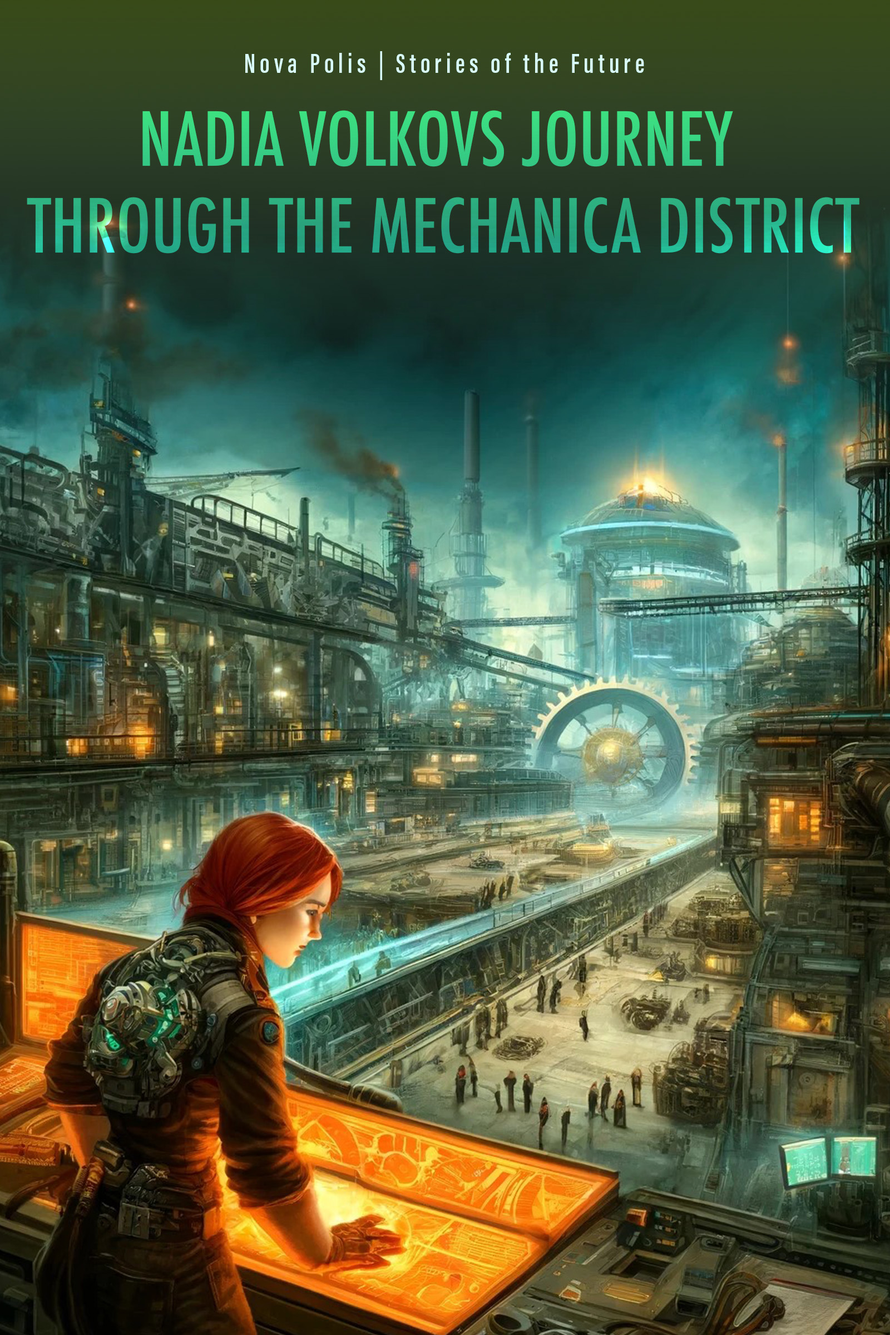
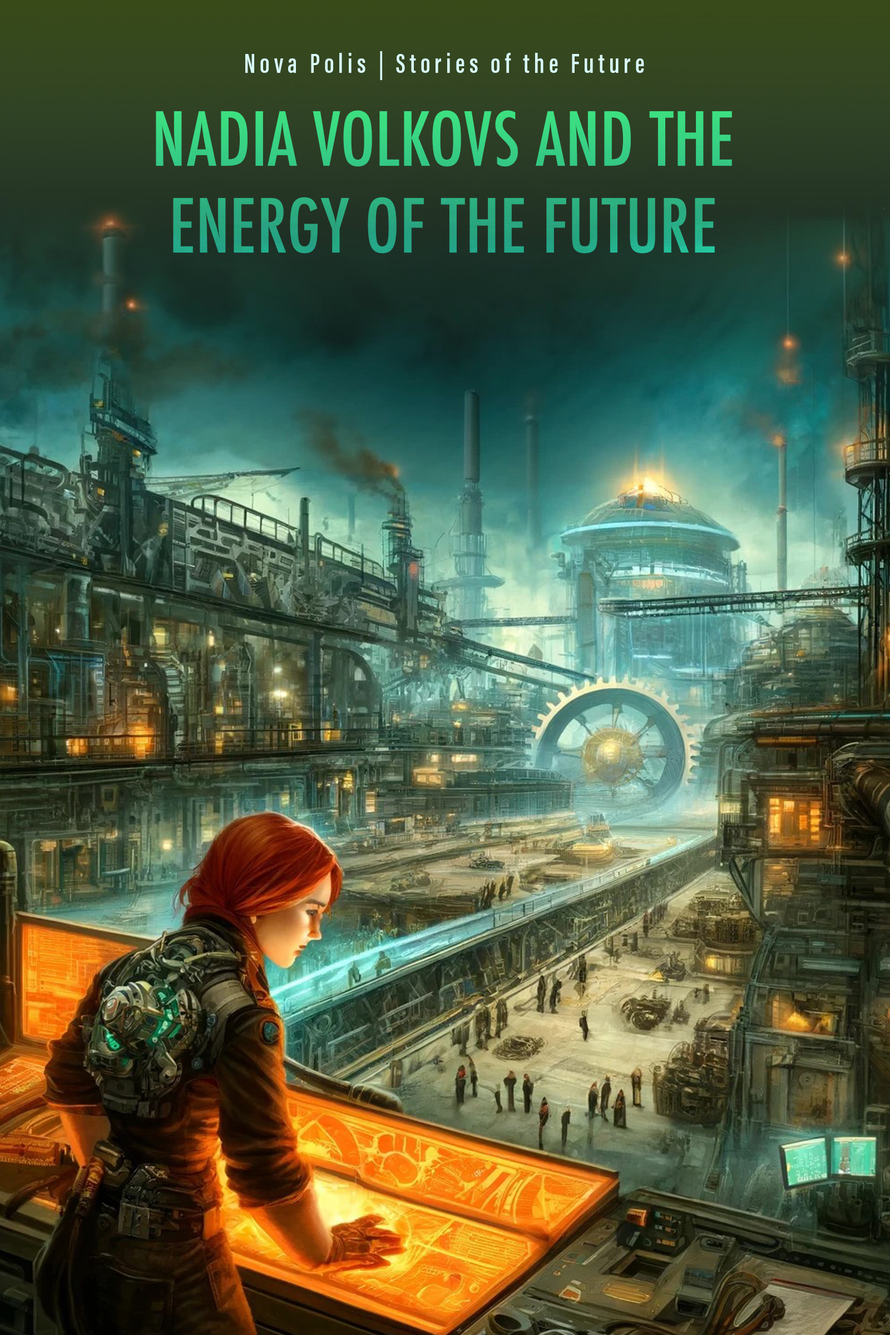
Version1.1

Changed region(s): [[0.0312, 0.0625, 0.9688, 0.1875]]

diff --git a/js/scripts.js b/js/scripts.js
@@ -19,11 +19,16 @@ document.addEventListener('DOMContentLoaded', function() {
             booktext1: "A Day in Nova Polis, follows Alex, a courier navigating a futuristic city of contrasts. From the luxury of Zenith Heights to the vibrancy of the Neon District, the industry of the Mechanica District, and the peace of Elysium Gardens, ending in the challenging Dystopia Slums. Through his deliveries, Alex discovers the diverse and human facets of Nova Polis.",
             bookTitle2: "Nadia Volkov and the Energy of the Future",
             booktext2: "In Nova Polis, engineer Nadia Volkov develops a revolutionary energy core designed to improve the slums and make the industry more efficient. With the support of union leader Max and tech CEO Aria, she fights against corrupt leaders. Despite resistance, they manage to take control of the city's central energy hub and create sustainable change. Will their vision of a fairer and more sustainable future become a reality?",
+            bookTitle3: "The Night of Ascension",
+            bookText3:"Theo Marlowe, a street musician, is discovered by producer Jasper Blake and gets the chance to record demos. After a successful show at the Hyperion Club, supported by engineer Nadia with holographic effects, Theo becomes famous. With his success, he establishes a foundation for young musicians from the Dystopia Slums to help them achieve their dreams. But how will Theo handle his newfound fame, and what challenges await him in Nova Polis?",
             button1: "Buy Now in EN",
             button2: "Buy Now in DE",
             button3: "Coming soon",
             button4: "Buy Now in DE",
+            button5: "Buy Now in EN",
+            button6: "Buy Now in DE",
             follow: "Follow us",
+            workinprogess: "Work in Progress",
             projects: {
                 1: {
                     title: "Shadows of Revolution",
@@ -32,10 +37,16 @@ document.addEventListener('DOMContentLoaded', function() {
                     details: "Shadows of Revolution is a gripping dystopian novel that immerses the reader in the dark world of the city of Ecliptas. In a society controlled by megacorporations, Maya and Gabe fight against oppression and for freedom. The protagonist, Maya, shaped by her unique heritage and deep determination, is at the center of this fight. Together with her group of rebels, she tries to bring the truth about the rulers' machinations to light and mobilize the citizens of Ecliptas. The plot is filled with tension, secrets, and moral dilemmas that captivate the reader. The strength of the book lies not only in its suspenseful storyline but also in its profound characters and the complex relationships that connect them. Anthony succeeds in captivating readers with vivid descriptions and a detailed world where every decision has far-reaching consequences. Shadows of Revolution is more than just a story about rebellion; it is a call for reflection on power, freedom, and the role of the individual in society. A must-read for fans of dystopian literature and thrilling adventure stories."   
                 },
                 2: {
-                    title: "Project Title 2",
+                    title: "Nova Polis: Stories of the Future",
                     image: "images/project2.jpg",
-                    description: "A brief description of Project 2.",
-                    details: "Detailed information about Project 2. This section can include the project's objectives, challenges, solutions, and results."
+                    description: "Futuristic stories of perseverance, hope, and urban contrasts.",
+                    details: "Welcome to Nova Polis, a futuristic city where technology meets human destinies. This short story series explores wealth and poverty, progress and decay, hope and despair. Journey through the vibrant metropolis from luxurious Zenith Heights to dangerous Dystopia Slums. Discover the contrasts: Zenith Heights' luxury, Neon District's nightlife, Mechanica District's industry, Elysium Gardens' sustainability, and the struggles in Dystopia Slums. Each story reveals the lives of Nova Polis residents, showcasing the city's diversity and complexity. Immerse yourself in Nova Polis and uncover how its people live, love, and fight in a changing world. What twists await them? Discover in our stories!"
+                },
+                3: {
+                    title: "My Creative Journey in Web Design",
+                    image: "images/project3.jpg",
+                    description: "In this section, I share my journey and passion for web design.",
+                    details: "Welcome to my web design portfolio! Here, I showcase a selection of my favorite projects that I have created with passion and creativity. For me, web design is more than just a profession - it is my hobby and my greatest passion. I love creating appealing and functional websites that not only look good but are also easy to use. My process is simple and straightforward. Everything starts with an idea and a clear vision of what the website should achieve. Then comes the designing and experimenting – I create drafts and prototypes, discussing them with friends and acquaintances to get feedback. Once the design is finalized, I move on to development and build the website step by step. If you're interested in collaborating on a project or just want to learn more, feel free to contact me! I'm always excited about new ideas and challenges."
                 }
             }
         },
@@ -58,11 +69,16 @@ document.addEventListener('DOMContentLoaded', function() {
             booktext1: "Ein Tag in Nova Polis, folgt Alex, einem Kurier, der sich durch eine futuristische Stadt der Gegensätze bewegt. Von der Luxus von Zenith Heights über die Lebendigkeit des Neon Districts, die Industrie des Mechanica Districts und die Ruhe der Elysium Gardens bis hin zu den herausfordernden Dystopia Slums. Durch seine Lieferungen entdeckt Alex die vielfältigen und menschlichen Facetten von Nova Polis.",
             bookTitle2: "Nadia Volkov und die Energie der Zukunft",
             booktext2: "In Nova Polis entwickelt Ingenieurin Nadia Volkov einen revolutionären Energiekern, der die Slums verbessern und die Industrie effizienter machen soll. Mit Unterstützung von Gewerkschaftsführer Max und Tech-CEO Aria kämpft sie gegen korrupte Machthaber. Trotz Widerständen gelingt es ihnen, die zentrale Energiezentrale zu übernehmen und die Stadt nachhaltig zu verändern. Wird ihre Vision von einer gerechteren und nachhaltigeren Zukunft Wirklichkeit werden?",
+            bookTitle3: "Die Nacht des Aufstiegs",
+            bookText3:"Theo Marlowe, ein Straßenmusiker, wird von Produzent Jasper Blake entdeckt und erhält die Chance, Demos aufzunehmen. Nach einer erfolgreichen Show im Hyperion Club, unterstützt von der Ingenieurin Nadia mit holografischen Effekten, wird Theo berühmt. Mit seinem Erfolg gründet er eine Stiftung für junge Musiker aus den Dystopia Slums, um ihnen zu helfen, ihre Träume zu verwirklichen. Doch wie wird Theo mit seinem neuen Ruhm umgehen, und welche Herausforderungen erwarten ihn noch in Nova Polis?",
             button1: "Jetzt kaufen in EN",
             button2: "Jetzt kaufen in DE",
             button3: "Demnächst verfügbar",
             button4: "Jetzt kaufen in DE",
+            button5: "Jetzt kaufen in EN",
+            button6: "Jetzt kaufen in DE",
             follow: "Folge uns",
+            workinprogess: "in Arbeit",
             projects: {
                 1: {
                     title: "Shadows of Revolution",
@@ -71,10 +87,16 @@ document.addEventListener('DOMContentLoaded', function() {
                     details: "Shadows of Revolution ist ein fesselnder dystopischer Roman, der den Leser in die dunkle Welt der Stadt Ecliptas eintauchen lässt. In einer Gesellschaft, die von Megakonzernen kontrolliert wird, kämpfen Maya und Gabe gegen Unterdrückung und für Freiheit. Die Protagonistin Maya, geprägt durch ihr einzigartiges Erbe und ihren tiefen Entschluss, steht im Zentrum dieses Kampfes. Zusammen mit ihrer Gruppe von Rebellen versucht sie, die Wahrheit über die Machenschaften der Herrscher ans Licht zu bringen und die Bürger von Ecliptas zu mobilisieren. Die Handlung ist voller Spannung, Geheimnisse und moralischer Dilemmata, die den Leser fesseln. Die Stärke des Buches liegt nicht nur in seiner spannenden Handlung, sondern auch in seinen tiefgründigen Charakteren und den komplexen Beziehungen, die sie verbinden. Anthony gelingt es, die Leser mit lebendigen Beschreibungen und einer detaillierten Welt zu fesseln, in der jede Entscheidung weitreichende Konsequenzen hat. Schatten der Revolution ist mehr als nur eine Geschichte über Aufstand; es ist ein Aufruf zur Reflexion über Macht, Freiheit und die Rolle des Individuums in der Gesellschaft. Ein Muss für Fans von dystopischer Literatur und spannenden Abenteuergeschichten."
                 },
                 2: {
-                    title: "Projekt Titel 2",
+                    title: "Nova Polis: Geschichten der Zukunft",
                     image: "images/project2.jpg",
-                    description: "Eine kurze Beschreibung des Projekts 2.",
-                    details: "Detaillierte Informationen über das Projekt 2. Dieser Abschnitt kann die Ziele, Herausforderungen, Lösungen und Ergebnisse des Projekts enthalten."
+                    description: "Futuristische Geschichten über Durchhaltevermögen, Hoffnung und urbane Kontraste.",
+                    details: "Willkommen in Nova Polis, einer futuristischen Stadt, in der Technologie auf menschliche Schicksale trifft. Diese Kurzgeschichtenreihe erkundet Reichtum und Armut, Fortschritt und Verfall, Hoffnung und Verzweiflung. Reisen Sie durch die lebendige Metropole von den luxuriösen Zenith Heights bis zu den gefährlichen Dystopia Slums. Entdecken Sie die Kontraste: den Luxus von Zenith Heights, das Nachtleben im Neon District, die Industrie im Mechanica District, die Nachhaltigkeit der Elysium Gardens und die Kämpfe in den Dystopia Slums. Jede Geschichte enthüllt das Leben der Bewohner von Nova Polis und zeigt die Vielfalt und Komplexität der Stadt. Tauchen Sie ein in Nova Polis und erfahren Sie, wie die Menschen in einer sich wandelnden Welt leben, lieben und kämpfen. Welche Wendungen erwarten sie? Entdecken Sie es in unseren Geschichten!"
+                },
+                3: {
+                    title: "Meine kreative Reise im Webdesign",
+                    image: "images/project3.jpg",
+                    description: "In diesem Abschnitt teile ich meine Reise und Leidenschaft für Webdesign.",
+                    details: "Willkommen in meinem Webdesign-Portfolio! Hier zeige ich eine Auswahl meiner liebsten Projekte, die ich mit viel Leidenschaft und Kreativität umgesetzt habe. Für mich ist Webdesign mehr als nur ein Beruf – es ist mein Hobby und meine große Leidenschaft. Ich liebe es, ansprechende und funktionale Websites zu gestalten, die nicht nur gut aussehen, sondern auch einfach zu bedienen sind. Mein Prozess ist einfach und unkompliziert. Alles beginnt mit einer Idee und einer klaren Vorstellung davon, was die Website erreichen soll. Dann geht es ans Designen und Ausprobieren – ich erstelle Entwürfe und Prototypen, die ich mit Freunden und Bekannten bespreche, um Feedback zu bekommen. Wenn das Design steht, mache ich mich an die Umsetzung und entwickle die Website Schritt für Schritt. Wenn du Lust hast, gemeinsam an einem Projekt zu arbeiten oder einfach nur mehr erfahren möchtest, melde dich gerne bei mir! Ich freue mich immer über neue Ideen und Herausforderungen."
                 }
             }
         }
@@ -93,7 +115,8 @@ document.addEventListener('DOMContentLoaded', function() {
             'navProjects', 'navBlog', 'navContact', 'aboutText', 'bookTitle1',
             'projectsText', 'blog-text', 'contactText', 'aboutMe', 'shortStories',
             'textShort', 'booktext1', 'button1', 'follow', 'button2', 'bookTitle2',
-            'booktext2', 'button3', 'button4',
+            'booktext2', 'button3', 'button4', 'bookTitle3', 'bookText3', 'button5', 'button6',
+            'workinprogess'
         ];
 
         elements.forEach(id => {
@@ -183,7 +206,7 @@ function downloadBook(filename, event) {
     
     switch (filename) {
         case 'book1.pdf':
-            url = 'www.instagram.com';
+            url = 'Englische version';
             break;
         case 'book2.pdf':
             url = 'https://books2read.com/u/mlylwZ';
@@ -192,8 +215,14 @@ function downloadBook(filename, event) {
             url = '';
             break;
         case 'book4.pdf':
-            url = 'https://books2read.com/u/mlylwZ';
+            url = 'buch 2 deutsch';
             break;
+        case 'book3.pdf':
+            url = 'buch 3 enlisch';
+            break;
+        case 'book3.pdf':
+            url = 'buch 4 deutsch';
+            break
         // Füge hier weitere Fälle hinzu, falls nötig
         default:
             url = 'https://example.com/default-download-page'; // Eine Standardseite für andere Dateien

diff --git a/index.html b/index.html
@@ -79,9 +79,11 @@
                             <div class="overlay">View Details</div>
                         </div>
                         <div class="back">
-                            <h3>Book Title 3</h3>
-                            <p>Some information about Book 3.</p>
-                            <button onclick="downloadBook('book2.pdf', event)">Download</button>
+                            <h3 id="bookTitle3">Book Title 3</h3>
+                            <p id="bookText3">Some information about Book 3.</p>
+                            <p id="workinprogess">work in progress</p>
+                        <!--    <button onclick="downloadBook('book5.pdf', event)" id="button5">Buy Now in EN</button>
+                            <button onclick="downloadBook('book6.pdf', event)" id="button6">Buy Now in DE</button>        -->
                         </div>
                     </div>
                 </div>          
@@ -104,6 +106,13 @@
                     <div class="project-info">
                         <h3 class="project-title">Project Title 2</h3>
                         <p class="project-description">A brief description of Project 2.</p>
+                    </div>
+                </div>
+                <div class="project-card" data-project="3">
+                    <img src="images/project3.jpg" alt="Project 3" class="project-image">
+                    <div class="project-info">
+                        <h3 class="project-title">Project Title 3</h3>
+                        <p class="project-description">A brief description of Project 3.</p>
                     </div>
                 </div>
                 <!-- Weitere Projekte hier hinzufügen -->
